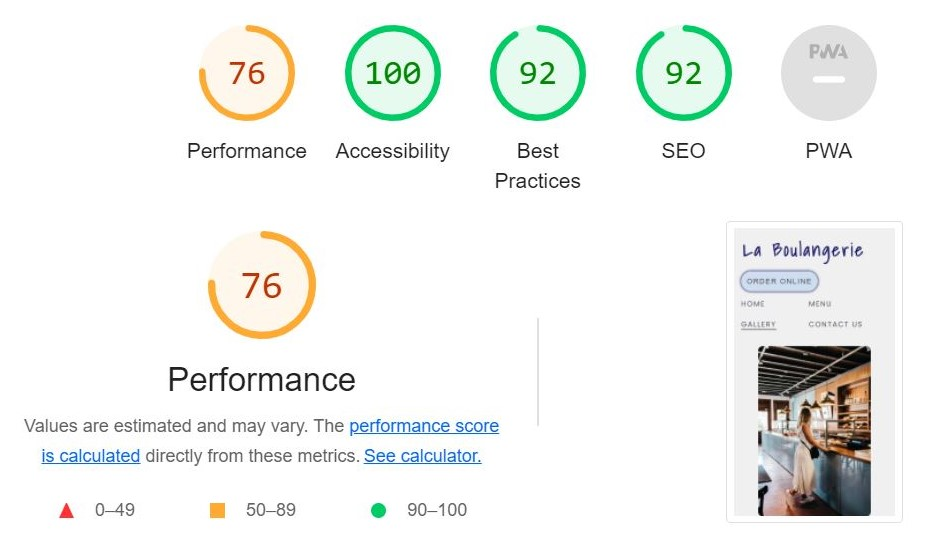
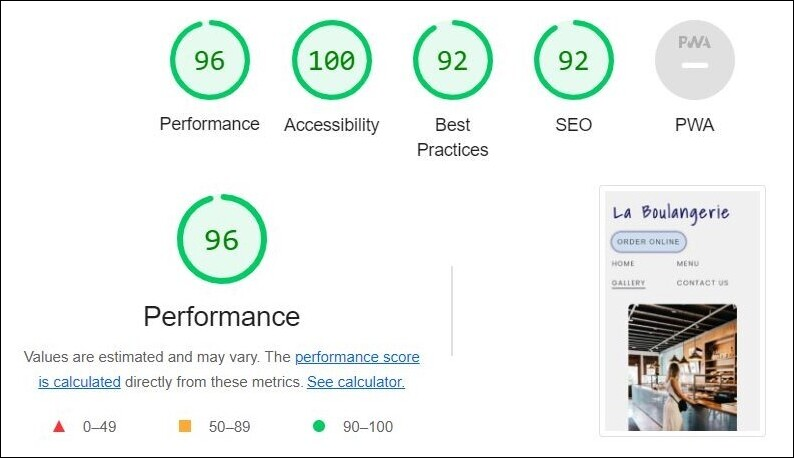
Add content to Lighthouse test section in README.md file

diff --git a/README.md b/README.md
@@ -404,7 +404,7 @@ To assist the navigation menu responsiveness on mobile devices, a feature can be
 #### Design
 
 * [Google Fonts](https://fonts.google.com/)– for styling the typography 
-* Balsamiq Wireframe – to create wireframes
+* [Balsamiq Wireframe](https://balsamiq.com/) – to create wireframes
 * [Font Awesome](https://fontawesome.com/) – for social media icons
 * [Canva](https://www.canva.com/) - for colour scheme and image editing
 * Microsoft Paint 3D – to resize and crop images 
@@ -499,9 +499,7 @@ The [Am I responsive](http://ami.responsivedesign.is/#) checker was used to test
 
 ### Lighthouse Test
 
-The Lighthouse Test available on Developer Tools was used to test specific aspects of the website. The tool was used to check the website on desktop and mobile devices. 
-The performance score has been inconsistent and gives a different score each time the test is run. Upon further research and suggestions from tutors, it was determined that the Lighthouse performance score is unreliable and will not be considered an important issue with the website. 
-The accessibility and SEO scores are 100 on each page. The best practices score is 92 on the homepage because of a low resolution image (bakery-image). However, since the image appears as intended on various screen sizes and browsers, this is not considered an important issue to be resolved. 
+The Lighthouse Test on Developer Tools was used to test specific aspects of the website on desktop and mobile devices. The site scored well in on all pages for desktop and mobile. The lowest score achieved was for performance on gallery page for mobile devices. As there are 14 images on this page, the low score is due to low resolution of some images. However, further investigation revealed that these images appear as intended on mobile devices and therefore this is not considered an significant issue to require further attention. 
 
 #### Desktop
 
@@ -646,7 +644,7 @@ Tutor Support – I would like to thank the various tutors at the Code Institute
 
 [Unsplash](https://unsplash.com/) - for free images taken from Unsplash
 
-Balsamiq wireframe – for creating wireframes in the design process
+[Balsamiq wireframe](https://balsamiq.com/) – for creating wireframes in the design process
 
 [W3school](https://www.w3schools.com/) – for HTML and CSS coding information and trouble shooting
 
